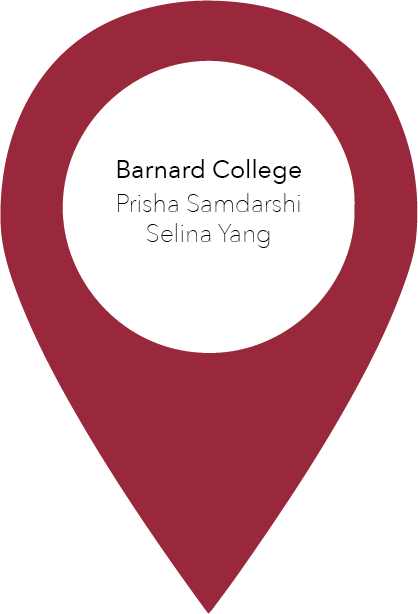
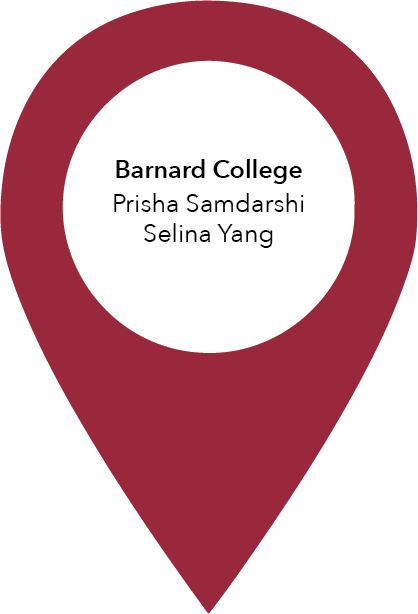
image updating

Changed region(s): [[0.2488, 0.2476, 0.7464, 0.4023]]

diff --git a/index.html b/index.html
@@ -13,7 +13,7 @@
                 <!--AZ-->
                 <div class = "pin" style = "--x-cord: 355px; --y-cord: 395px; --logpin: url(files/logopins/asucopy.png);">
                     <div class = "overhead"></div>
-                    <div class = "content" style = "--custpin: url(files/finalpins/AZ/asu.png);">
+                    <div class = "content" style = "--custpin: url(files/finalpins/AZ/asu2.png);">
                     </div>
                 </div>
                 <!--CA-->
@@ -84,7 +84,7 @@
                 </div>
                 <div class = "pin" style = "--x-cord: 60px; --y-cord: 503px; --logpin: url(files/logopins/ucsantabarbaracopy.png);">
                     <div class = "overhead"></div>
-                    <div class = "content" style = "--custpin: url(files/finalpins/CA/ucsb.png);">
+                    <div class = "content" style = "--custpin: url(files/finalpins/CA/ucsb2.png);">
                     </div>
                 </div>
                 <div class = "pin" style = "--x-cord: 80px; --y-cord: 508px; --logpin: url(files/logopins/santabarbaracitycollegecopy.png);">
@@ -104,12 +104,12 @@
                 </div>
                 <div class = "pin" style = "--x-cord: 100px; --y-cord: 525px; --logpin: url(files/logopins/uclacopy.png);">
                     <div class = "overhead"></div>
-                    <div class = "content" style = "--custpin: url(files/finalpins/CA/ucla.png);">
+                    <div class = "content" style = "--custpin: url(files/finalpins/CA/ucla2.png);">
                     </div>
                 </div>
                 <div class = "pin" style = "--x-cord: 130px; --y-cord: 530px; --logpin: url(files/logopins/usccopy.png);">
                     <div class = "overhead"></div>
-                    <div class = "content" style = "--custpin: url(files/finalpins/CA/usc.png);">
+                    <div class = "content" style = "--custpin: url(files/finalpins/CA/usc2.png);">
                     </div>
                 </div>
                 <div class = "pin" style = "--x-cord: 117px; --y-cord: 541px; --logpin: url(files/logopins/lmucopy.png);">
@@ -169,7 +169,7 @@
                 </div>
                 <div class = "pin" style = "--x-cord: 850px; --y-cord: 320px; --logpin: url(files/logopins/barnardcopy.png);">
                     <div class = "overhead"></div>
-                    <div class = "content" style = "--custpin: url(files/finalpins/NY/barnard.png);">
+                    <div class = "content" style = "--custpin: url(files/finalpins/NY/barnard2.png);">
                     </div>
                 </div>
                 <div class = "pin" style = "--x-cord: 840px; --y-cord: 335px; --logpin: url(files/logopins/parsonscopy.png);">
@@ -229,7 +229,7 @@
                 </div>
                 <div class = "pin" style = "--x-cord: 925px; --y-cord: 230px; --logpin: url(files/logopins/amherstcopy.png);">
                     <div class = "overhead"></div>
-                    <div class = "content" style = "--custpin: url(files/finalpins/MA/amherst.png);">
+                    <div class = "content" style = "--custpin: url(files/finalpins/MA/amherst2.png);">
                     </div>
                 </div>
                 <div class = "pin" style = "--x-cord: 940px; --y-cord: 250px; --logpin: url(files/logopins/umassamherstcopy.png);">
@@ -239,7 +239,7 @@
                 </div>
                 <div class = "pin" style = "--x-cord: 1010px; --y-cord: 200px; --logpin: url(files/logopins/bostoncollegecopy.png);">
                     <div class = "overhead"></div>
-                    <div class = "content" style = "--custpin: url(files/finalpins/MA/bostoncollege.png);">
+                    <div class = "content" style = "--custpin: url(files/finalpins/MA/bostoncollege2.png);">
                     </div>
                 </div>
                 <div class = "pin" style = "--x-cord: 990px; --y-cord: 215px; --logpin: url(files/logopins/wellesleycopy.png);">
@@ -279,7 +279,7 @@
                 </div>
                 <div class = "pin" style = "--x-cord: 700px; --y-cord: 280px; --logpin: url(files/logopins/cmucopy.png);">
                     <div class = "overhead"></div>
-                    <div class = "content" style = "--custpin: url(files/finalpins/PA/cmu.png);">
+                    <div class = "content" style = "--custpin: url(files/finalpins/PA/cmu2.png);">
                     </div>
                 </div>
                 <div class = "pin" style = "--x-cord: 734px; --y-cord: 268px; --logpin: url(files/logopins/upenncopy.png);">
@@ -374,7 +374,7 @@
                 </div>
                 <div class = "pin" style = "--x-cord: 735px; --y-cord: 295px; --logpin: url(files/logopins/americanucopy.png);">
                     <div class = "overhead"></div>
-                    <div class = "content" style = "--custpin: url(files/finalpins/DC/americanu.png);">
+                    <div class = "content" style = "--custpin: url(files/finalpins/DC/americanu2.png);">
                     </div>
                 </div>
                 <div class = "pin" style = "--x-cord: 725px; --y-cord: 305px; --logpin: url(files/logopins/georgetowncopy.png);">
